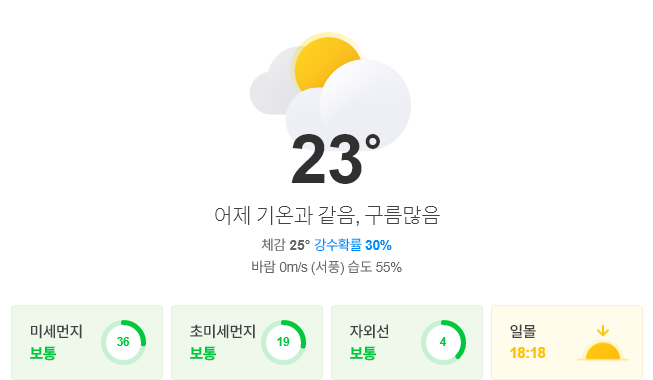
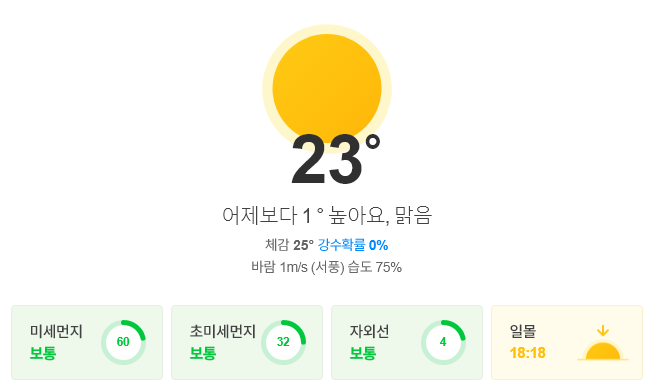
update result

diff --git a/README.md b/README.md
@@ -1,5 +1,5 @@
-##  2020-09-30 12:09:32   수요일 
-##### 날씨   -   어제 기온과 같음, 구름많음
+##  2020-09-30 16:09:50   수요일 
+##### 날씨   -   어제보다 1 ° 높아요, 맑음
 <center><img src="../img/naver_weather_week.png"></center>
 ----
 ----
@@ -16,8 +16,8 @@
 <tr align = "right" > <td>DOW</td><td>27,452.66</td><td>-131.4</td><td><font size="3" color="blue" >-0.48%</font></td><td><font size="3" color="black">0</font></td><td><font size="3" color="black">0</font></td><td>0</td>  </tr>
 <tr align = "right" > <td>NASDAQ</td><td>11,085.25</td><td>-32.28</td><td><font size="3" color="blue" >-0.29%</font></td><td><font size="3" color="black">0</font></td><td><font size="3" color="black">0</font></td><td>0</td>  </tr>
 <tr align = "right" > <td>S&P</td><td>3,335.47</td><td>-16.13</td><td><font size="3" color="blue" >-0.48%</font></td><td><font size="3" color="black">0</font></td><td><font size="3" color="black">0</font></td><td>0</td>  </tr>
-<tr align = "right" > <td>SHANHAI</td><td>3,242.39</td><td>18.03</td><td><font size="3" color="red" >0.56%</font></td><td><font size="3" color="black">0</font></td><td><font size="3" color="black">0</font></td><td>0</td>  </tr>
-<tr align = "right" > <td>INDIA</td><td>37,973.22</td><td>-8.41</td><td><font size="3" color="blue" >-0.02%</font></td><td><font size="3" color="black">0</font></td><td><font size="3" color="black">0</font></td><td>0</td>  </tr>
+<tr align = "right" > <td>SHANHAI</td><td>3,217.15</td><td>-7.21</td><td><font size="3" color="blue" >-0.22%</font></td><td><font size="3" color="black">0</font></td><td><font size="3" color="black">0</font></td><td>0</td>  </tr>
+<tr align = "right" > <td>INDIA</td><td>37,999.49</td><td>26.27</td><td><font size="3" color="red" >0.07%</font></td><td><font size="3" color="black">0</font></td><td><font size="3" color="black">0</font></td><td>0</td>  </tr>
 </table>
 ----
 ##### 시장
